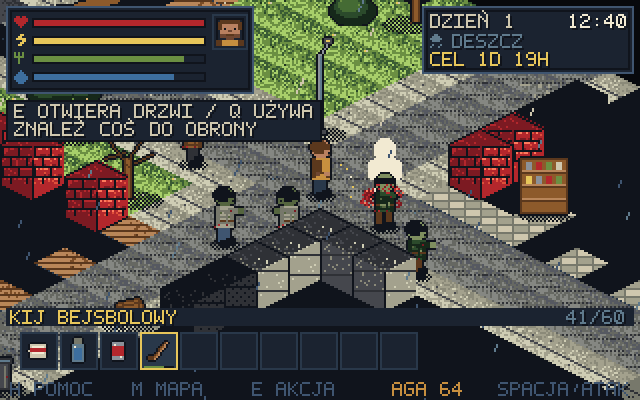
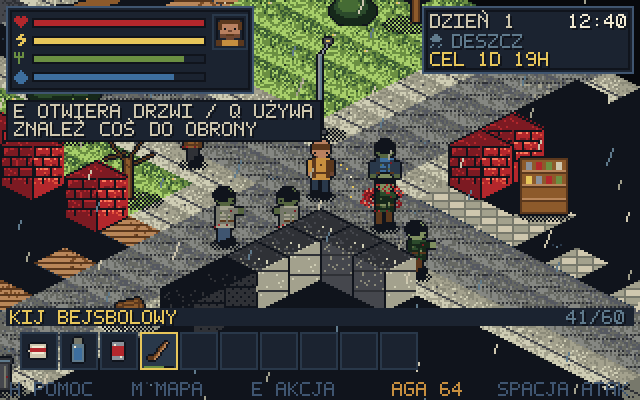
Grafika 0.2.2: widoczny deszcz, zrzuty bez klatki trafienia, portret HUD

Changed region(s): [[0.4688, 0.36, 0.5312, 0.48], [0.5625, 0.33, 0.625, 0.45]]

diff --git a/src/ui.js b/src/ui.js
@@ -499,13 +499,14 @@ export function drawRain(game, force = false) {
   if (!force && game.weather !== 'rain') return;
   const scr = game.screen;
   const t = game.t;
-  const n = force ? 55 : 60;
+  const n = force ? 80 : 90;
   for (let i = 0; i < n; i++) {
     const x = ((i * 53 + Math.floor(t * 60)) % 340) - 10;
     const y = ((i * 97 + Math.floor(t * 240)) % 240) - 20;
-    const color = i % 5 === 0 ? C.BONE : i % 3 === 0 ? C.STEEL : C.SLATE;
-    scr.line(x, y, x - 1, y + 3, color);
-    if (i % 7 === 0) scr.line(x - 2, y + 5, x - 3, y + 7, color);
+    // jasne smugi: ciemny deszcz ginął na asfalcie i w trawie
+    const color = i % 3 === 0 ? C.BONE : i % 3 === 1 ? C.STEEL : C.CONCRETE;
+    scr.line(x, y, x - 1, y + 4, color);
+    if (i % 7 === 0) scr.line(x - 2, y + 5, x - 3, y + 8, color);
     // rozbryzgi na ziemi — kropla uderza i rozpryskuje się w dwie kropki
     if (i % 9 === 0) {
       const gy = ((i * 71 + Math.floor(t * 120)) % 190) + 8;
